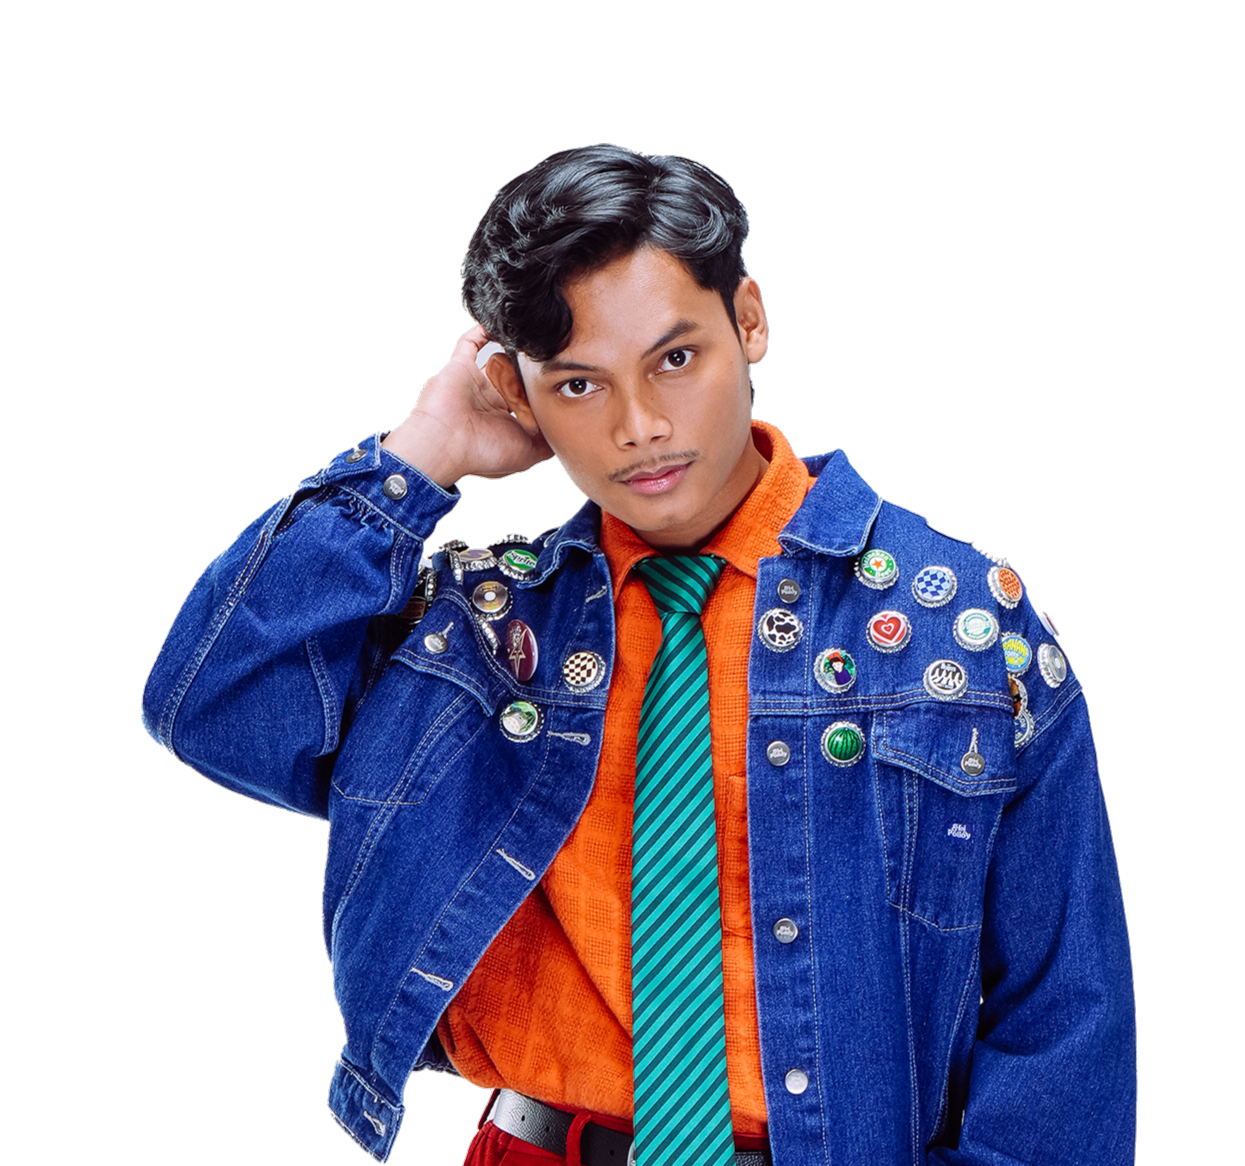
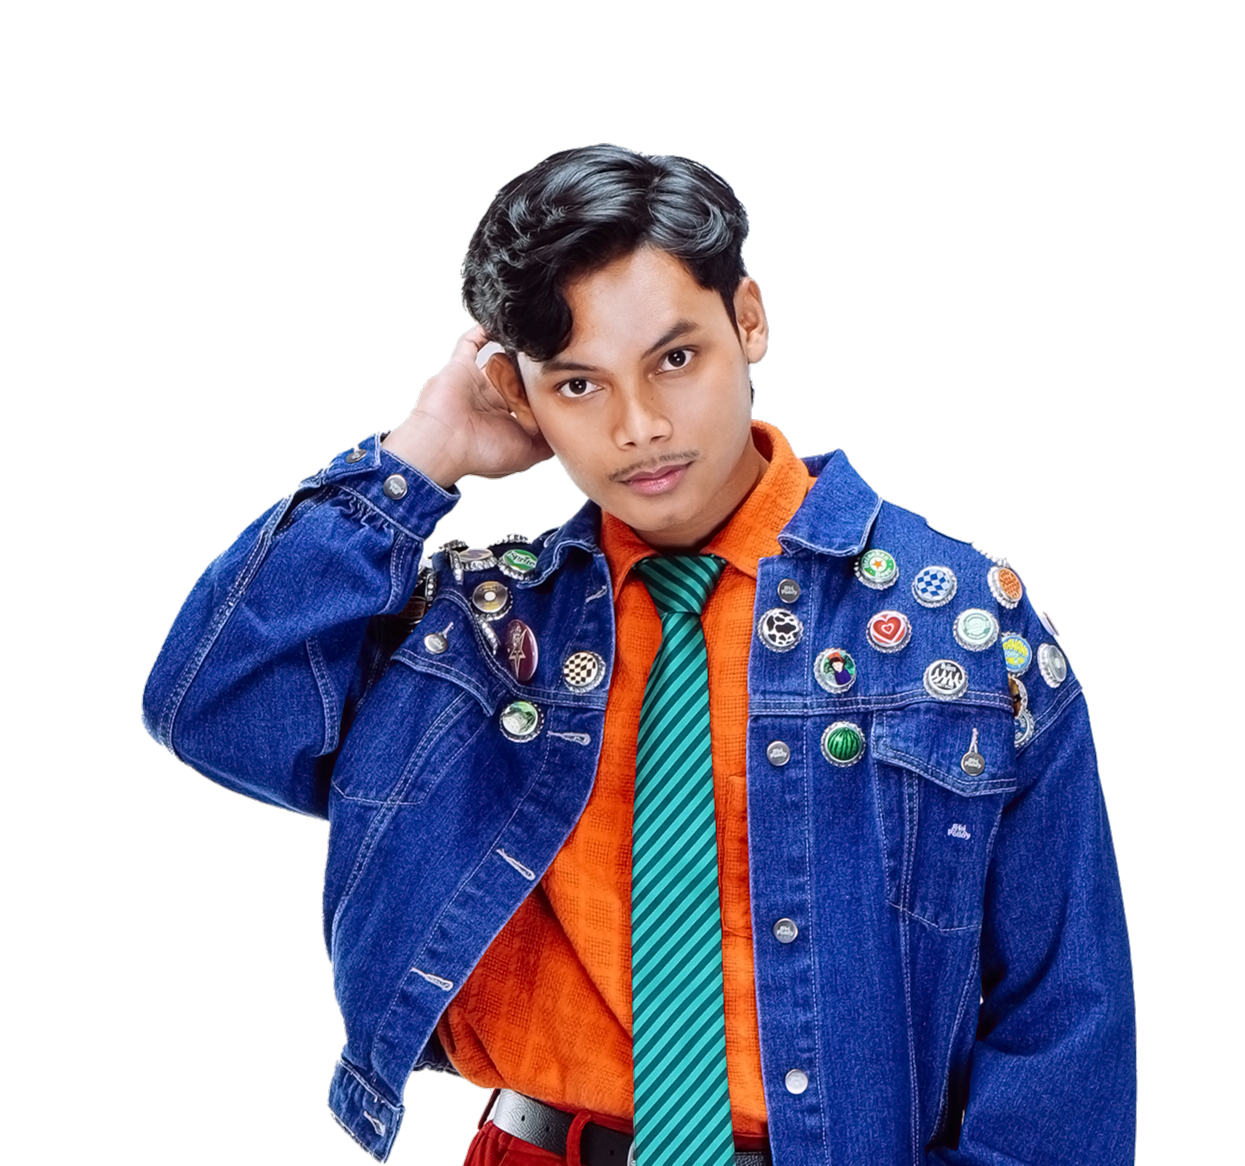
update: latest changes

diff --git a/src/app/page.tsx b/src/app/page.tsx
@@ -12,6 +12,7 @@ import BlurText from '@/components/BlurText';
 import Service from '@/components/Service';
 import Hero from '@/components/Hero';
 import Works from '@/components/Works';
+import Showreels from '@/components/Showreels';
 
 export default function Home() {
     const circleRef = useRef(null);
@@ -33,29 +34,31 @@ export default function Home() {
             <Hero />
             <PartnerOne />
             <PartnerTwo />
-            <div ref={circleRef} className='h-[400vh] w-full overflow-y-clip'>
-                <Service />
+            <div ref={circleRef} className='h-[320vh] w-full overflow-y-clip'>
+                <Showreels />
+                {/* <Service /> */}
 
-                <div className='relative bg-amber-500 overflow-x-clip h-screen'>
+                <div className='relative overflow-x-clip h-[screen]'>
                     {/* Expanding Circle Animation */}
                     <motion.div
-                        className="absolute left-0 right-0 -top-1/4 w-full h-screen bg-white rounded-t-full z-20"
+                        className="absolute left-0 right-0 -top-1/2 w-full h-full bg-white rounded-t-full z-20"
                         style={{ scale }}
                     ></motion.div>
-                    <div className="w-full h-fit sticky top-0 bg-white z-30 flex flex-col items-center">
+
+                    <div className="w-full h-fit sticky top-0 z-30 flex flex-col items-center">
                         <BlurText
-                            text={"OUR"}
+                            text={"ENOUGH ABOUT US"}
                             delay={150}
                             animateBy="words"
                             direction="top"
-                            className="text-(--color-primary) font-extrabold text-4xl md:text-6xl xl:text-9xl text-center mt-8 uppercase"
+                            className="text-(--color-primary) font-black text-4xl md:text-6xl xl:text-7xl text-center mt-8 uppercase"
                         />
                         <BlurText
-                            text={"WORKS"}
+                            text={"LET'S TALK ABOUT YOU!"}
                             delay={150}
                             animateBy="words"
                             direction="top"
-                            className="text-(--color-primary) font-extrabold text-4xl md:text-6xl xl:text-9xl text-center mt-8 uppercase"
+                            className="text-(--color-primary) font-black text-4xl md:text-6xl xl:text-7xl text-center mt-8 uppercase italic"
                         />
                         <Works />
                     </div>

diff --git a/src/components/Hero/index.tsx b/src/components/Hero/index.tsx
@@ -19,6 +19,34 @@ import KOL4 from "../../assets/kol4.png";
 import KOL5 from "../../assets/kol5.png";
 import Element3 from "../../assets/asset-3.svg";
 
+import cse1 from "@/assets/cse1.png";
+import cse2 from "@/assets/cse2.png";
+import cse3 from "@/assets/cse3.png";
+import cse4 from "@/assets/cse7.png";
+import cse5 from "@/assets/cse8.png";
+import cse6 from "@/assets/cse9.png";
+import cse7 from "@/assets/cse10.png";
+import cse8 from "@/assets/cse4.png";
+import cse9 from "@/assets/cse5.png";
+import cse10 from "@/assets/cse6.png";
+
+const logos = [
+    cse1,
+    cse2,
+    cse3,
+    cse4,
+    cse5,
+    cse6,
+    cse7,
+    cse8,
+    cse9,
+    cse10,
+];
+
+
+
+// Import Logo
+
 // Import Motion Libraries
 import {
     motion,
@@ -154,14 +182,27 @@ export default function Hero() {
                                 />
                             </motion.div>
                         </div>
+                        {/* Logos */}
+                        <div className="flex flex-wrap justify-center items-center gap-8">
+                            {logos.map((logo, index) => (
+                                <div key={index} className="opacity-80 hover:opacity-100 transition">
+                                    <Image
+                                        src={logo}
+                                        alt={`ecosystem-${index}`}
+                                        className="h-auto w-24 object-contain brightness-0 invert"
+                                    />
+                                </div>
+                            ))}
+                        </div>
+
 
                         {/* BUTTON CTA */}
-                        <motion.div initial="hidden" animate="visible" variants={reveal}>
+                        {/* <motion.div initial="hidden" animate="visible" variants={reveal}>
                             <ButtonThree
                                 text="CLICK TO DISCOVER THE MAGIC"
                                 onClick={scrollToDiscover}
                             />
-                        </motion.div>
+                        </motion.div> */}
                     </motion.div>
                 </motion.div>
 

diff --git a/src/components/Works/index.tsx b/src/components/Works/index.tsx
@@ -2,6 +2,8 @@
 import { animate, motion, useMotionValue } from "framer-motion";
 import Image from "next/image";
 import { useEffect, useState } from "react";
+// React & Next
+import Link from "next/link";
 
 import useMeasure from "react-use-measure";
 
@@ -13,6 +15,9 @@ import content5 from "@/assets/content-5.gif";
 import content6 from "@/assets/content-6.gif";
 import content7 from "@/assets/content-7.gif";
 import { ButtonThree } from "../Button";
+
+import { FontAwesomeIcon } from "@fortawesome/react-fontawesome";
+import { faArrowRight } from "@fortawesome/free-solid-svg-icons";
 
 const images = [content1, content2, content3, content4, content5, content6, content7];
 
@@ -110,6 +115,19 @@ export default function Works() {
 
                 </motion.ul>
             </div>
+            <Link href="/contact">
+                <button className="group relative text-(--color-primary) border border-(--color-primary) px-10 py-6 rounded-3xl hover:border-b-8 hover:border-r-8 transition-all cursor-pointer flex items-center gap-3">
+
+                    <span className="font-extrabold text-3xl md:text-5xl uppercase flex items-center gap-3">
+                        Be Our Partner
+                        <FontAwesomeIcon
+                            icon={faArrowRight}
+                            className="w-[1em] h-[1em] transition-transform group-hover:translate-x-1 group-hover:-translate-y-1 -rotate-45"
+                        />
+                    </span>
+
+                </button>
+            </Link>
         </section>
     );
 }

diff --git a/src/components/Footer/index.tsx b/src/components/Footer/index.tsx
@@ -1,10 +1,10 @@
 // Next Hook
 // Import Image from "next/image";
-import Link from "next/link";
+/* import Link from "next/link"; */
 
 // Import Components
-import Overline from '@/components/Overline';
-import BlurText from '../BlurText';
+/* import Overline from '@/components/Overline';
+import BlurText from '../BlurText'; */
 
 // Import Icon Libraries
 import { FontAwesomeIcon } from "@fortawesome/react-fontawesome";
@@ -12,8 +12,8 @@ import { faDiscord, faDribbble, faFacebook, faGithub, faTwitter } from "@fortawe
 
 export default function Footer() {
     return (
-        <footer className="bg-(--color-primary)">
-            <div className='sticky bg-(--color-primary) h-screen z-10 top-0 flex flex-col items-center p-36 text-white gap-12'>
+        <footer>
+            {/* <div className='sticky bg-(--color-primary) h-screen z-10 top-0 flex flex-col items-center p-36 text-white gap-12'>
                 <Overline text="WE ARE DEEPLY DEDICATED TO" />
 
                 <BlurText
@@ -31,8 +31,8 @@ export default function Footer() {
                         </span>
                     </button>
                 </Link>
-            </div>
-            <div className='bg-white h-screen z-0 sticky top-0'></div>
+            </div> */}
+            {/* <div className='bg-white h-screen z-0 sticky top-0'></div> */}
 
             <div className='bg-(--color-tertiary) h-screen w-full z-30 text-black flex flex-col items-center justify-center relative p-24'>
 

diff --git a/src/components/Showreels/index.tsx b/src/components/Showreels/index.tsx
@@ -1,0 +1,23 @@
+"use client";
+
+export default function Showreels() {
+    return (
+        <section className="relative h-[200vh]">
+
+            {/* STICKY VIDEO */}
+            <div className="sticky top-0 h-screen flex items-center justify-center">
+
+                <video
+                    src="/showreel.MP4"
+                    autoPlay
+                    muted
+                    loop
+                    playsInline
+                    className="w-full h-full object-cover"
+                />
+
+            </div>
+
+        </section>
+    );
+}

diff --git a/src/components/Header/index.tsx b/src/components/Header/index.tsx
@@ -29,11 +29,11 @@ export default function Header() {
     }, [controls]);
 
     const playSound = () => {
-        const audio = new Audio('/hover.mp3');
+        /* const audio = new Audio('/hover.mp3');
         audio.volume = 0;
         audio.play().then(() => {
             audio.volume = 0.2;
-        }).catch(err => console.error("Audio play error:", err));
+        }).catch(err => console.error("Audio play error:", err)); */
     };
 
     return (
